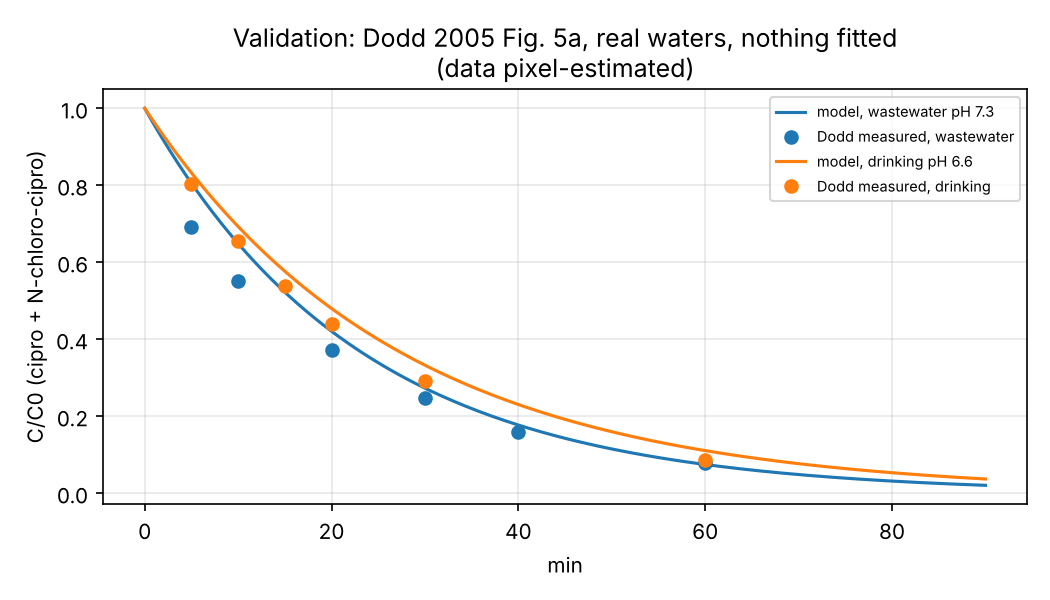
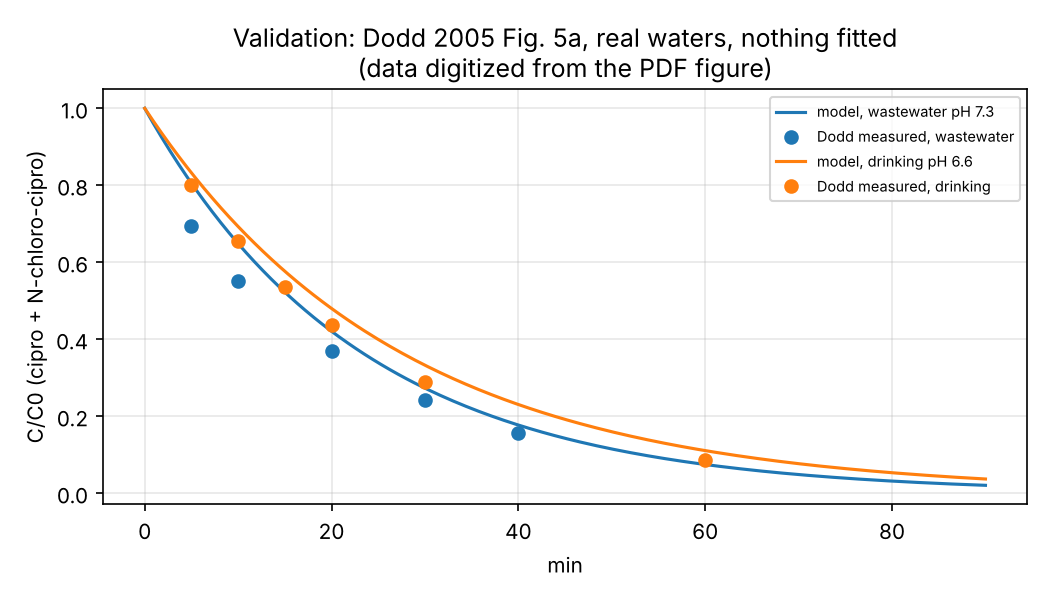
Digitize Dodd 2005 Fig. 5a and Kennedy Neth 2019 Fig. 2 from the PDF figures
Replaces the rough pixel estimates with values measured from the embedded
figure images: axes calibrated on tick marks, Dodd markers found by shape
detection, Kennedy Neth bar tops and error-bar caps by column scan. Adds sd
columns from the error bars. Dodd wastewater 60-min point is hidden behind
the drinking-water marker and is omitted.

Checkpoint A vs Dodd Fig. 5a: 14.5% (wastewater) / 8.6% (drinking) mean
error, was 13.7% / 8.1%; still under the 20% test limit. Kennedy Neth Fig. 2A
verdict unchanged. All 16 tests pass. Regenerated results*.json, figures 4
and 7; web explorer data and labels updated; method in scripts/digitize/.

Claude-Session: https://claude.ai/code/session_01F2zSMXycFf1BLvCLax8n9e

Changed region(s): [[0.3352, 0.09, 0.7314, 0.15], [0.3962, 0.63, 0.4267, 0.66]]

diff --git a/web/cipro_model_explorer.html b/web/cipro_model_explorer.html
@@ -177,7 +177,7 @@ td.num { font-family: var(--f-data); white-space: nowrap; }
       <section class="card" aria-labelledby="h-val">
         <div class="headrow"><div>
           <h2 id="h-val">Check against real water (Dodd 2005, Fig. 5a)</h2>
-          <p class="sub">Dodd chlorinated cipro in Atlanta wastewater and drinking water and measured cipro + N-chloro-cipro after a thiosulfate quench. The model uses the breakdown-speed knobs above with nothing fitted. Data points are my pixel readings of his figure until re-digitized.</p>
+          <p class="sub">Dodd chlorinated cipro in Atlanta wastewater and drinking water and measured cipro + N-chloro-cipro after a thiosulfate quench. The model uses the breakdown-speed knobs above with nothing fitted. Data points are digitized from his figure (the 60-min wastewater point is hidden behind another marker and left out).</p>
         </div><div class="stats" id="valStats" style="min-width:240px"></div></div>
         <div class="legend"><span><i style="background:var(--s1)"></i>Wastewater, pH 7.3</span><span><i style="background:var(--s2)"></i>Drinking water, pH 6.6</span><span>● measured · line = model</span></div>
         <div class="chartbox" id="cVal"></div>
@@ -185,7 +185,7 @@ td.num { font-family: var(--f-data); white-space: nowrap; }
         <p class="sub">2.33 mg/L cipro + 2.0 mg/L chlorine in ultrapure water, no chlorine demand, pH assumed 7 (not stated in the supplement). Tests how much chlorine cipro and its products consume. Nothing fitted to these numbers; the 2-chlorine step comes from Dodd's product structures.</p>
         <div class="tbl" id="tKN"></div>
         <h2 style="margin-top:18px;font-size:0.98rem">Kennedy Neth 2019, Fig. 2A: cipro and activity over time (fails)</h2>
-        <p class="sub">They stopped the reaction with hydrogen peroxide and measured cipro by LC-MS. About 30% of the cipro stayed for 2 hours. Dodd's kinetics, and so this model, say none should survive. The two labs disagree, and the authors note their rate was about 100× slower than published values. Their antibacterial activity (PEQ) stayed about 0.4 above what the leftover cipro explains, which supports active products. Values are my pixel readings.</p>
+        <p class="sub">They stopped the reaction with hydrogen peroxide and measured cipro by LC-MS. About 30% of the cipro stayed for 2 hours. Dodd's kinetics, and so this model, say none should survive. The two labs disagree, and the authors note their rate was about 100× slower than published values. Their antibacterial activity (PEQ) stayed about 0.4 above what the leftover cipro explains, which supports active products. Values are digitized from their figure.</p>
         <div class="legend"><span>● cipro measured</span><span>○ activity (PEQ) measured</span><span><i style="background:var(--accent)"></i>model, true cipro</span><span><i style="background:var(--s4)"></i>model, cipro + N-chloro-cipro</span></div>
         <div class="chartbox" id="cKN2"></div>
       </section>
@@ -466,8 +466,8 @@ const RIS = (function () {
 const $ = id => document.getElementById(id);
 const NS = 'http://www.w3.org/2000/svg';
 const DODD = {
-  ww: { pH: 7.3, FAC: 1.6e-4, pts: [[5,0.692],[10,0.552],[20,0.371],[30,0.246],[40,0.160],[60,0.078]], color: 'var(--s1)' },
-  dw: { pH: 6.6, FAC: 2.8e-5, pts: [[5,0.803],[10,0.655],[15,0.537],[20,0.439],[30,0.291],[60,0.087]], color: 'var(--s2)' },
+  ww: { pH: 7.3, FAC: 1.6e-4, pts: [[5,0.695],[10,0.552],[20,0.370],[30,0.242],[40,0.157]], color: 'var(--s1)' },
+  dw: { pH: 6.6, FAC: 2.8e-5, pts: [[5,0.801],[10,0.654],[15,0.535],[20,0.436],[30,0.288],[60,0.085]], color: 'var(--s2)' },
 };
 const SER = [
   { k: 4, name: 'Ciprofloxacin', color: 'var(--accent)' },
@@ -654,7 +654,7 @@ function compute() {
   $('tKN').innerHTML = '<table><thead><tr><th>Measure</th><th>Measured</th><th>Model</th><th>Error</th></tr></thead><tbody>' +
     knRows.map(r => { const e = 100 * (r[2] / r[1] - 1); return `<tr><td>${r[0]}</td><td class="num">${r[1]}</td><td class="num">${r[2].toFixed(2)}</td><td class="num" style="color:${Math.abs(e) <= 20 ? 'var(--accent)' : 'var(--bad)'}">${e >= 0 ? '+' : ''}${e.toFixed(1)}%</td></tr>`; }).join('') + '</tbody></table>';
 
-  const KN2 = [[0.5,0.378,0.764],[1,0.368,0.766],[5,0.316,0.707],[10,0.297,0.665],[30,0.287,0.682],[60,0.285,0.651],[120,0.275,0.703]];
+  const KN2 = [[0.5,0.380,0.763],[1,0.369,0.767],[5,0.317,0.709],[10,0.297,0.665],[30,0.289,0.682],[60,0.286,0.651],[120,0.276,0.704]];
   const knT = kn.T.map(t => t / 60), C0kn = kn.Y[0][4];
   chart('cKN2', { aria: 'Kennedy Neth cipro and activity versus model', xMax: 120, yMax: 1, xTicks: [0, 15, 30, 45, 60, 75, 90, 105, 120],
     series: [{ name: 'model, true cipro', color: 'var(--accent)', pts: kn.T.map((t, i) => [t / 60, Math.max(kn.Y[i][4], 0) / C0kn]) },

diff --git a/scripts/digitize/kn_digit.py b/scripts/digitize/kn_digit.py
@@ -1,0 +1,57 @@
+import numpy as np, json
+from PIL import Image
+b=np.array(Image.open('kimg-000.png').convert('L')).astype(int)
+times=[0,0.5,1,5,10,30,60,120]
+res={}
+for panel,(xa,xb) in {'A':(119,672),'B':(854,1416)}.items():
+    # y ticks: short dark marks just left of the y axis
+    band=(b[0:660,xa-9:xa-2]<120).sum(1)
+    t=np.where(band>=4)[0]; ticks=[]
+    for i in t:
+        if not ticks or i>ticks[-1][-1]+1: ticks.append([i])
+        else: ticks[-1].append(i)
+    tk=[np.mean(g) for g in ticks]; print(panel,'y tick rows',[round(v,1) for v in tk])
+    vals=np.arange(len(tk))[::-1]*0.2   # top tick = 1.2
+    py=np.polyfit(tk,vals,1); print(' resid',np.round(np.polyval(py,tk)-vals,4))
+    Y=lambda r: float(np.polyval(py,r))
+    row=625
+    seg=b[row,xa+3:xb-3]
+    def runs(lo,hi):
+        m=(seg>=lo)&(seg<=hi); out=[];s=None
+        for i,v in enumerate(m):
+            if v and s is None: s=i
+            if not v and s is not None:
+                if i-s>=8: out.append((s+xa+3,i-1+xa+3))
+                s=None
+        return out
+    dk=runs(40,95); gr=runs(120,175)
+    print(' dark bars',dk); print(' gray bars',gr)
+    out=[]
+    for name,bars,(lo,hi) in [('cipro',dk,(40,95)),('PEQ',gr,(120,175))]:
+        for j,(s,e) in enumerate(bars):
+            c=(s+e)//2; w=e-s
+            cols=[s+2, s+w//4, e-w//4, e-2]
+            tops=[]
+            for cc in cols:
+                r=row
+                while r>16 and b[r-1,cc]<200: r-=1   # climb through bar fill and any black cap line until background
+                tops.append(r)
+            top=np.median(tops)
+            # error bar: black pixels in the centre column
+            colc=b[:640,c-1:c+2].min(1); blk=np.where(colc<40)[0]
+            # caps: rows where a wide black run is centred on c
+            caps=[r for r in range(5,640) if (b[r,c-8:c+9]<60).sum()>=10]
+            capg=[]
+            for r in caps:
+                if not capg or r>capg[-1][-1]+1: capg.append([r])
+                else: capg[-1].append(r)
+            capr=[np.mean(g) for g in capg]
+            above=[x for x in capr if x<top-1 and x>top-120]; below=[x for x in capr if top+1<x<top+120]
+            hi_cap=min(above) if above else None; lo_cap=max(below) if below else None
+            out.append(dict(series=name,time=times[j],value=round(Y(top-0.5),4),
+                            sd_up=None if hi_cap is None else round(Y(hi_cap)-Y(top-0.5),3),
+                            sd_down=None if lo_cap is None else round(Y(top-0.5)-Y(lo_cap),3),
+                            px=dict(col=int(c),top=float(top),caps=[round(x,1) for x in capr])))
+    res[panel]=out
+    for o in out: print(' ',o)
+json.dump(res,open('kn_points.json','w'),indent=1)

diff --git a/scripts/digitize/write_csv.py b/scripts/digitize/write_csv.py
@@ -1,0 +1,28 @@
+import json, csv
+D=json.load(open('dodd_points.json')); K=json.load(open('kn_points.json'))
+sd={('filled',5):0.027,('open',5):0.059,('open',10):0.041,('open',15):0.037,('open',20):0.025,('open',60):0.029}
+rows=[]
+note1=("DIGITIZED 2026-10-16 from the vector-embedded 600-dpi figure image in dodd2005.pdf p.10 (Fig. 5a, CF-Ia1). "
+       "Axes calibrated on tick marks (fit residual <0.001); marker centres found by shape detection; 1 px = 0.00087 C/C0, 0.055 min. "
+       "sd = half error bar where visible; blank = bar hidden inside marker (<~0.02). Wastewater 60-min point is hidden under the drinking-water marker and is omitted.")
+for kind,water,pH,F in [('filled','wastewater',7.3,'1.6e-4'),('open','drinking',6.6,'2.8e-5')]:
+    first=True
+    for t,v,*_ in D[kind]:
+        T=round(t); s=sd.get((kind,T),'')
+        rows.append([water,pH,F,'1.5e-6',T,round(v,3),s,note1 if (first and kind=='filled') else ''])
+        first=False
+with open('dodd2005_fig5a.csv','w',newline='') as f:
+    w=csv.writer(f); w.writerow(['water','pH','FAC_M','cipro0_M','time_min','C_over_C0','sd','note']); w.writerows(rows)
+note2=("DIGITIZED 2026-10-16 from the 300-dpi figure image in kennedyneth2019.pdf p.6 (Fig. 2A/2B, doi 10.1039/C9EW00182D). "
+       "Bar tops and error-bar caps located by pixel scan; y axis calibrated on tick marks (residual <0.001); 1 px = 0.0019. "
+       "sd = half error bar (n = 3 replicate sets). Quench = H2O2 then catalase; cipro by LC-MS; PEQ = antibacterial potency equivalent (E. coli ATCC 11303).")
+meta={'A':('ultrapure',2.0,''),'B':('wastewater',6.5,'wastewater: TOC 6.8 mg/L; NH3-N <0.1 mg/L; chlorine demand unknown')}
+out=[]
+for p in 'AB':
+    c={o['time']:o for o in K[p] if o['series']=='cipro'}; q={o['time']:o for o in K[p] if o['series']=='PEQ'}
+    for i,t in enumerate([0.5,1,5,10,30,60,120]):
+        sdv=lambda o: '' if o['sd_up'] is None else round((o['sd_up']+(o['sd_down'] or o['sd_up']))/2,3)
+        n = note2 if (p=='A' and i==0) else (meta[p][2] if i==0 else '')
+        out.append([meta[p][0],7.0,meta[p][1],2.33,t,round(c[t]['value'],3),sdv(c[t]),round(q[t]['value'],3),sdv(q[t]),n])
+with open('kennedyneth2019_fig2.csv','w',newline='') as f:
+    w=csv.writer(f); w.writerow(['water','pH','Cl_dose_mgL','cipro_mgL','time_min','cipro_C_over_C0','cipro_sd','PEQ','PEQ_sd','note']); w.writerows(out)

diff --git a/scripts/digitize/dodd_digit.py b/scripts/digitize/dodd_digit.py
@@ -1,0 +1,41 @@
+import numpy as np, json
+from PIL import Image
+from scipy import ndimage as ndi
+from scipy.signal import fftconvolve
+a=np.array(Image.open('d5a.png').convert('L'))>128
+# calibration from tick marks (pixel centres found in ticks.py)
+xt=np.array([238.0,601.0,962.0,1324.5,1686.0]); xv=np.array([0,20,40,60,80])
+yt=np.array([1170.5,941.5,712.5,484.0,256.0]); yv=np.array([0,.2,.4,.6,.8])
+px=np.polyfit(xt,xv,1); py=np.polyfit(yt,yv,1)
+print('x res',np.polyval(px,xt)-xv,'y res',np.polyval(py,yt)-yv)
+X=lambda c: np.polyval(px,c); Y=lambda r: np.polyval(py,r)
+# plot area only (exclude legend box region x>1000,y<420 and frame)
+mask=np.zeros_like(a); mask[35:1165,245:1860]=1
+legend=np.zeros_like(a); legend[40:440,560:1860]=1
+A=a&mask.astype(bool)
+yy,xx=np.mgrid[-30:31,-30:31]; rr=np.hypot(xx,yy)
+# filled disks: erosion with radius-17 disk
+er=ndi.binary_erosion(A,structure=rr<=17)
+lab,n=ndi.label(er)
+filled=[ndi.center_of_mass(er,lab,i) for i in range(1,n+1)]
+# open rings: score = ink fraction in annulus 19..25 minus ink fraction in core <=11
+ann=((rr>=19)&(rr<=25)).astype(float); core=(rr<=11).astype(float)
+f=A.astype(float)
+sa=fftconvolve(f,ann[::-1,::-1],mode='same')/ann.sum()
+sc=fftconvolve(f,core[::-1,::-1],mode='same')/core.sum()
+score=sa-sc
+cand=(score>0.75)&(sc<0.08)
+lab2,n2=ndi.label(cand)
+rings=[]
+for i in range(1,n2+1):
+    ys,xs=np.where(lab2==i); k=np.argmax(score[ys,xs]); rings.append((ys[k],xs[k],score[ys[k],xs[k]]))
+out={'filled':[],'open':[]}
+for (r,c) in filled:
+    if legend[int(r),int(c)]: continue
+    out['filled'].append((round(X(c),2),round(Y(r),4),int(c),int(r)))
+for (r,c,s) in rings:
+    if legend[int(r),int(c)]: continue
+    out['open'].append((round(X(c),2),round(Y(r),4),int(c),int(r),round(s,2)))
+for k in out:
+    out[k].sort(); print(k); [print('  ',p) for p in out[k]]
+json.dump(out,open('dodd_points.json','w'))

diff --git a/scripts/digitize/dodd_err.py b/scripts/digitize/dodd_err.py
@@ -1,0 +1,19 @@
+import numpy as np, json
+from PIL import Image
+a=np.array(Image.open('d5a.png').convert('L'))>128
+P=json.load(open('dodd_points.json'))
+yt=np.array([1170.5,941.5,712.5,484.0,256.0]); yv=np.array([0,.2,.4,.6,.8]); py=np.polyfit(yt,yv,1)
+def cap(c,r,step):
+    # walk along the error-bar stem (thin vertical line at column c) away from the marker edge
+    y=r+step*27; last=None
+    while 30<y<1165:
+        stem=a[y,c-2:c+3].any(); wide=a[y,c-14:c+15].sum()
+        if wide>=20: last=y           # horizontal cap
+        if not stem: break
+        y+=step
+    return last
+for k in P:
+    for p in P[k]:
+        c,r=p[2],p[3]
+        up,dn=cap(c,r,-1),cap(c,r,1)
+        print(k,p[0],p[1],'err up',None if up is None else round(np.polyval(py,up)-p[1],3),'err down',None if dn is None else round(p[1]-np.polyval(py,dn),3))

diff --git a/scripts/run_all.py b/scripts/run_all.py
@@ -78,7 +78,7 @@ for (w, p, F), g in df.groupby(["water", "pH", "FAC_M"], sort=False):
 OUT["independent_check_jasper_pH8.7"] = {"model": cm.k_frag(8.7), "jasper": 5.6e-4,
                                          "diff_pct": round(100 * (cm.k_frag(8.7) / 5.6e-4 - 1))}
 plt.xlabel("min"); plt.ylabel("C/C0 (cipro + N-chloro-cipro)")
-plt.title("Validation: Dodd 2005 Fig. 5a, real waters, nothing fitted\n(data pixel-estimated)")
+plt.title("Validation: Dodd 2005 Fig. 5a, real waters, nothing fitted\n(data digitized from the PDF figure)")
 plt.legend(fontsize=7); save("4_validation_dodd.png")
 
 # 5. Flow: mixing and contact time

diff --git a/scripts/digitize/README.md b/scripts/digitize/README.md
@@ -1,0 +1,13 @@
+# Digitizing published figures (2026-10-16)
+
+Re-creates `data/published/dodd2005_fig5a.csv` and `data/published/kennedyneth2019_fig2.csv` from the papers' own figure images.
+
+1. Extract the embedded images (PDFs not in the repo for copyright reasons):
+   ```
+   pdfimages -f 10 -l 10 -png dodd2005.pdf dimg          # 600-dpi 1-bit image, Fig. 5a/5b
+   pdfimages -f 6  -l 6  -png kennedyneth2019.pdf kimg   # 300-dpi image, Fig. 2A-F
+   python3 -c "from PIL import Image; Image.open('dimg-000.png').crop((0,0,1971,1388)).save('d5a.png')"
+   ```
+2. Run in this folder, next to the images: `dodd_digit.py` (markers), `dodd_err.py` (error bars), `kn_digit.py` (bars), `write_csv.py` (writes both CSVs).
+
+Method: axes calibrated on tick-mark pixel positions (linear fit residual < 0.001). Dodd: filled circles found by morphological erosion, open circles by ring-template matching; 1 px ≈ 0.0009 C/C0. Kennedy Neth: bar tops and error-bar caps by column scan; 1 px ≈ 0.002. `sd` = half the error bar. Check overlay: `figures/9_digitize_check.png`.

diff --git a/README.md b/README.md
@@ -14,7 +14,7 @@ Plain-language background: chlorine turns cipro into "N-chloro-cipro" in under a
 | `scripts/run_all.py` | Regenerates every figure in `figures/` and the numbers in `results.json` |
 | `results.json` | Key results (base case, sensitivity, validation errors, flow, Gap 2) |
 | `tests/test_model.py` | Automatic checks (mass balance, textbook flow answers, published-data match) |
-| `data/published/` | Data taken from papers (`dodd2005_fig5a.csv` is pixel-estimated, to be re-digitized) |
+| `data/published/` | Data taken from papers (Dodd 2005 Fig. 5a and Kennedy Neth 2019 Fig. 2, digitized from the PDFs on 2026-10-16; method in `scripts/digitize/`) |
 | `data/lab/` | Our own measurements (tracer test, HPLC, DPD, plates) |
 | `figures/` | Saved graphs |
 
